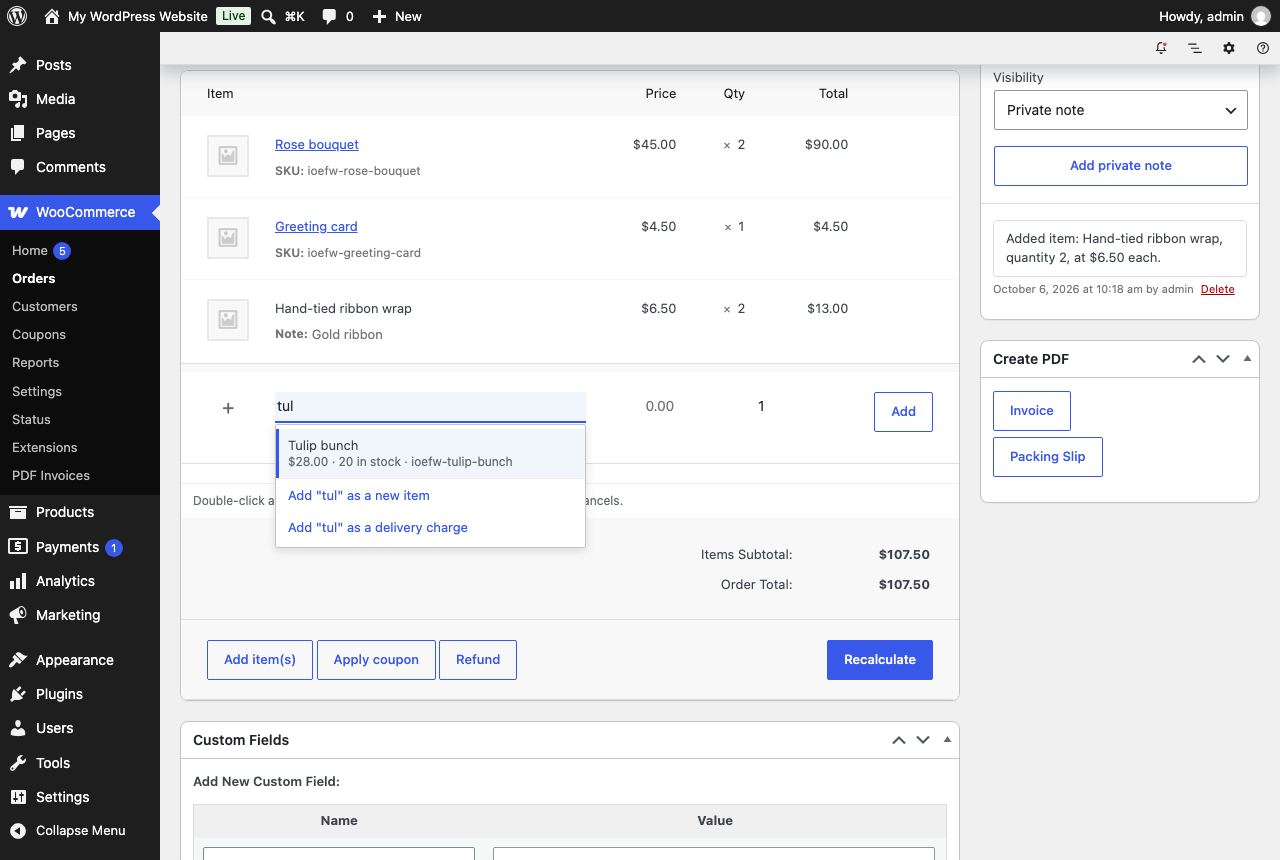
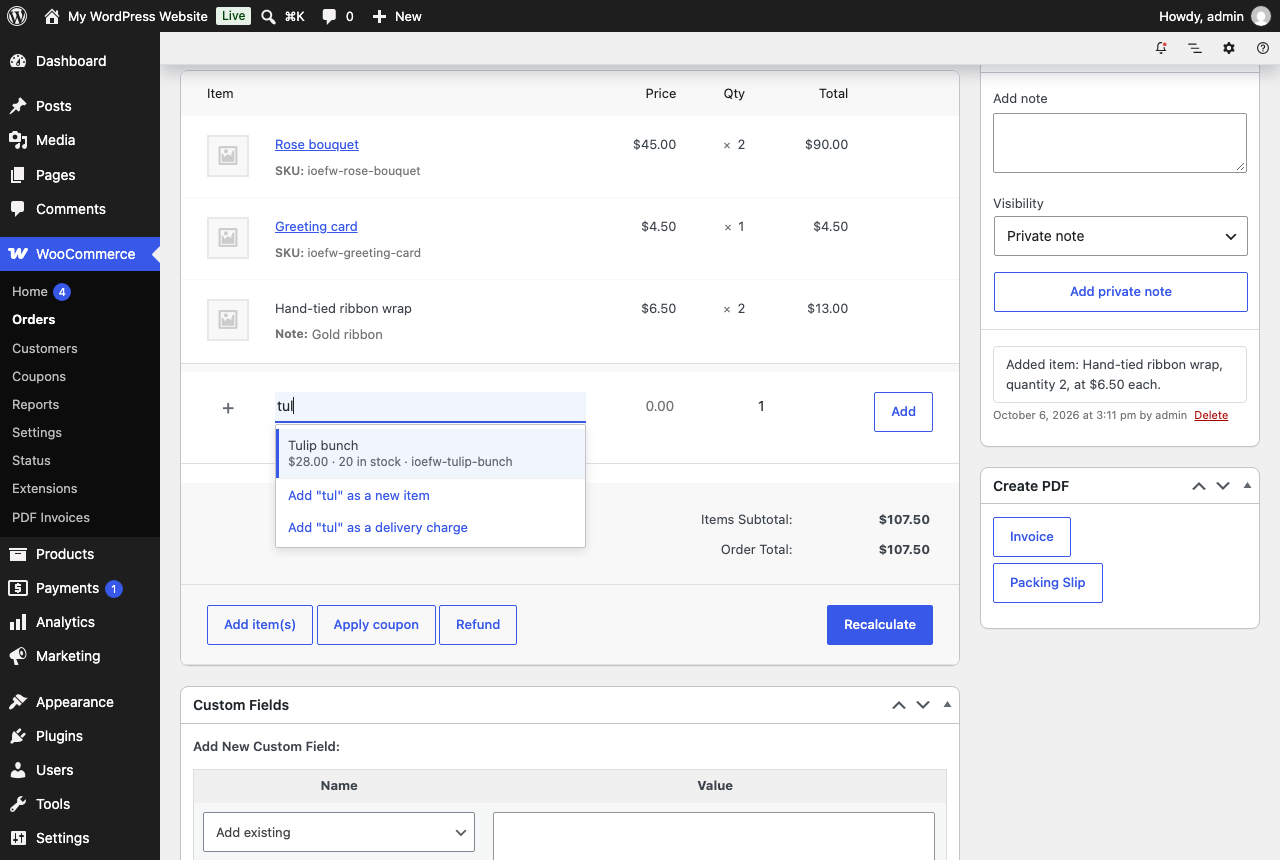
Show saved messages and errors as toasts, and drop the tip line
The line under the order's items is gone. A saved change, or something
that went wrong, now shows as a toast: a WordPress snackbar notice, which
WooCommerce's admin screens already draw and read out. Where that is not
on the page, a small toast of our own stands in. An error stays until it
is closed or replaced.

How to change a line is in the plugin's description instead. Where typed
amounts include tax, the price field and the value say so on hover. On an
order that is not created yet, the saved message says to click Create.

Version 1.0.1.

diff --git a/assets/js/order-editor.js b/assets/js/order-editor.js
@@ -21,7 +21,6 @@
 		box: '#woocommerce-order-items',
 		inside: '#woocommerce-order-items .inside',
 		table: 'table.woocommerce_order_items',
-		wrapper: '.woocommerce_order_items_wrapper',
 		lineItems: '#order_line_items',
 		feeItems: '#order_fee_line_items',
 		shippingItems: '#order_shipping_line_items',
@@ -29,6 +28,7 @@
 		notes: 'ul.order_notes',
 		status: '#order_status',
 		form: 'form#order, form#post',
+		toasts: '.woocommerce-transient-notices',
 		reloaded: 'wc_order_items_reloaded',
 		reload: 'wc_order_items_reload',
 		draftStatus: 'wc-checkout-draft',
@@ -41,8 +41,7 @@
 	let busy = false; // One request at a time.
 	let editing = null; // The cell being changed.
 	let pendingFocus = null; // Where focus goes once the box is redrawn.
-	let notice = null; // The message in the status line.
-	let noticeTimer = null;
+	let toastTimer = null;
 	let submitting = false; // The order form itself is being saved.
 	let pendingSubmit = null; // The order form, held back until a save in flight has answered.
 	let lastPointer = 'mouse';
@@ -188,60 +187,47 @@
 		document.dispatchEvent( new window.CustomEvent( 'ioefw:' + name, { detail: detail || {} } ) );
 	}
 
-	/* ---------- Status line ---------- */
+	/* ---------- Messages ---------- */
 
-	function hint() {
-		const parts = [];
+	// A message is a toast. WooCommerce's admin screens already show WordPress notices of the
+	// snackbar kind, bottom left, and read them out. Where that is not on the page, a small toast
+	// of our own stands in. A new message takes the place of the last one.
+	function showNotice( text, type ) {
+		const isError = 'error' === type;
+		const notices = wp.data && wp.data.dispatch ? wp.data.dispatch( 'core/notices' ) : null;
 
-		if ( state.isNew && hasItems() ) {
-			parts.push( __( 'Not saved yet. Click Create to keep this order.', 'inline-order-editor-for-woocommerce' ) );
-		}
-
-		parts.push(
-			hasItems()
-				? __(
-						'Double-click a price, quantity or total to change it. Enter saves, Esc cancels.',
-						'inline-order-editor-for-woocommerce'
-				  )
-				: __(
-						'Type a name in the row above to add the first item. Enter adds it.',
-						'inline-order-editor-for-woocommerce'
-				  )
-		);
-
-		if ( state.inclusive ) {
-			parts.push( __( 'Amounts you type include tax.', 'inline-order-editor-for-woocommerce' ) );
-		}
-
-		return parts.join( ' ' );
-	}
-
-	function drawStatus() {
-		const line = document.querySelector( CORE.box + ' .ioefw-status' );
-
-		if ( ! line ) {
+		if ( notices && notices.createNotice && document.querySelector( CORE.toasts ) ) {
+			notices.createNotice( isError ? 'error' : 'success', text, {
+				type: 'snackbar',
+				id: 'ioefw-toast',
+				// Something went wrong: the message stays until it is closed or replaced.
+				explicitDismiss: isError,
+			} );
 			return;
 		}
 
-		line.textContent = '';
-		line.classList.toggle( 'ioefw-status--error', !! notice && 'error' === notice.type );
-		line.classList.toggle( 'ioefw-status--saved', !! notice && 'error' !== notice.type );
-		line.appendChild( document.createTextNode( notice ? notice.text : hint() ) );
-	}
+		let toast = document.querySelector( '.ioefw-toast' );
 
-	function showNotice( text, type ) {
-		notice = { text: text, type: type || 'saved' };
-		window.clearTimeout( noticeTimer );
+		if ( ! toast ) {
+			toast = element( 'div', 'ioefw-toast', { role: 'status' } );
+			toast.addEventListener( 'click', function () {
+				toast.hidden = true;
+			} );
+			document.body.appendChild( toast );
+		}
 
-		if ( 'error' !== notice.type ) {
-			noticeTimer = window.setTimeout( function () {
-				notice = null;
-				drawStatus();
+		window.clearTimeout( toastTimer );
+		toast.textContent = text;
+		toast.classList.toggle( 'ioefw-toast--error', isError );
+		toast.hidden = false;
+
+		if ( ! isError ) {
+			toastTimer = window.setTimeout( function () {
+				toast.hidden = true;
 			}, 8000 );
 		}
 
-		drawStatus();
-		speak( text, 'error' === notice.type ? 'assertive' : 'polite' );
+		speak( text, isError ? 'assertive' : 'polite' );
 	}
 
 	function savedText( data ) {
@@ -255,6 +241,15 @@
 		}
 
 		return __( 'Saved.', 'inline-order-editor-for-woocommerce' );
+	}
+
+	// On an order that does not exist yet, a saved line is only kept once the order is created.
+	function savedNotice( data ) {
+		const text = savedText( data );
+
+		return state && state.isNew
+			? text + ' ' + __( 'Click Create to keep this order.', 'inline-order-editor-for-woocommerce' )
+			: text;
 	}
 
 	/* ---------- Drawing ---------- */
@@ -344,7 +339,12 @@
 				cell.setAttribute( 'tabindex', '0' );
 				cell.setAttribute( 'role', 'button' );
 				cell.setAttribute( 'aria-label', cellLabel( field, item ) );
-				cell.setAttribute( 'title', __( 'Double-click to change', 'inline-order-editor-for-woocommerce' ) );
+				cell.setAttribute(
+					'title',
+					state.inclusive && ( 'price' === field || 'total' === field )
+						? __( 'Double-click to change. Includes tax.', 'inline-order-editor-for-woocommerce' )
+						: __( 'Double-click to change', 'inline-order-editor-for-woocommerce' )
+				);
 				cell.closest( 'td' ).classList.add( 'ioefw-host' );
 			} );
 		} );
@@ -368,14 +368,6 @@
 
 		markCells( table );
 		buildAddRow( table );
-
-		const wrapper = table.closest( CORE.wrapper ) || table;
-		const line = document.createElement( 'div' );
-
-		line.className = 'ioefw-status';
-		line.setAttribute( 'role', 'status' );
-		wrapper.insertAdjacentElement( 'afterend', line );
-		drawStatus();
 		restoreFocus();
 		emit( 'mounted', { state: state } );
 	}
@@ -665,7 +657,7 @@
 			if ( response.success ) {
 				// Focus goes where it was asked to go, or stays where the user has moved to since.
 				pendingFocus = after || focusPlace();
-				showNotice( savedText( response.data ) );
+				showNotice( savedNotice( response.data ) );
 				draw( response.data );
 				emit( 'saved', { action: 'update_item', itemId: edit.itemId, field: edit.field, response: response.data } );
 				releaseSubmit( true );
@@ -816,6 +808,10 @@
 		const plus = element( 'span', 'ioefw-add__plus', { 'aria-hidden': 'true' } );
 		const button = element( 'button', 'button ioefw-add__button', { type: 'button' } );
 
+		const priceLabel = state.inclusive
+			? __( 'Price each, including tax', 'inline-order-editor-for-woocommerce' )
+			: __( 'Price each', 'inline-order-editor-for-woocommerce' );
+
 		plus.textContent = '+';
 		button.textContent = __( 'Add', 'inline-order-editor-for-woocommerce' );
 
@@ -834,7 +830,8 @@
 							type: 'text',
 							inputmode: 'decimal',
 							autocomplete: 'off',
-							'aria-label': __( 'Price each', 'inline-order-editor-for-woocommerce' ),
+							'aria-label': priceLabel,
+							title: priceLabel,
 							placeholder: formatNumber( 0 ),
 						} )
 					)
@@ -1149,7 +1146,7 @@
 		setAddBusy( false );
 		resetDraft();
 		pendingFocus = { type: 'add' };
-		showNotice( savedText( response.data ) );
+		showNotice( savedNotice( response.data ) );
 		draw( response.data );
 		emit( 'saved', { action: action, response: response.data } );
 		releaseSubmit( true );

diff --git a/assets/css/order-editor.css b/assets/css/order-editor.css
@@ -267,22 +267,32 @@
 	font-size: 12px;
 }
 
-/* The line under the table: a tip, or what the last change did. Its height is fixed. */
-#woocommerce-order-items .ioefw-status {
-	border-top: 1px solid #f0f0f1;
-	color: var(--ioefw-muted);
-	font-size: 12px;
-	line-height: 18px;
-	min-height: 18px;
-	padding: 8px 12px;
+/* The stand-in toast, for screens where WooCommerce's own is not on the page. It follows the look of
+   the WordPress snackbar. */
+.ioefw-toast {
+	background: #1e1e1e;
+	border-radius: 4px;
+	bottom: 24px;
+	box-shadow: 0 4px 12px rgba(0, 0, 0, 0.25);
+	box-sizing: border-box;
+	color: #fff;
+	cursor: pointer;
+	font-size: 13px;
+	left: 50%;
+	line-height: 1.4;
+	max-width: min(600px, calc(100vw - 32px));
+	padding: 12px 20px;
+	position: fixed;
+	transform: translateX(-50%);
+	z-index: 100000;
 }
 
-#woocommerce-order-items .ioefw-status--saved {
-	color: var(--ioefw-saved);
+.ioefw-toast[hidden] {
+	display: none;
 }
 
-#woocommerce-order-items .ioefw-status--error {
-	color: var(--ioefw-error);
+.ioefw-toast--error {
+	box-shadow: inset 4px 0 0 #f86368, 0 4px 12px rgba(0, 0, 0, 0.25);
 }
 
 /* The warning under the Status field when Draft is chosen. */

diff --git a/inline-order-editor-for-woocommerce.php b/inline-order-editor-for-woocommerce.php
@@ -2,8 +2,8 @@
 /**
  * Plugin Name: Inline Order Editor for WooCommerce
  * Plugin URI: https://github.com/danielk-am/inline-order-editor-for-woocommerce
- * Description: Take phone orders on the WooCommerce order screen. Add any item as a new row, double-click a line to change it, and add terms that reach the customer's email.
- * Version: 1.0.0
+ * Description: Take phone orders on the WooCommerce order screen. Type a name in the empty row to add any item. Double-click a price, quantity or total to change it: Enter saves, Esc cancels. Add terms that reach the customer's email.
+ * Version: 1.0.1
  * Requires at least: 6.8
  * Requires PHP: 7.4
  * Requires Plugins: woocommerce
@@ -20,7 +20,7 @@
 
 defined( 'ABSPATH' ) || exit;
 
-define( 'IOEFW_VERSION', '1.0.0' );
+define( 'IOEFW_VERSION', '1.0.1' );
 define( 'IOEFW_PLUGIN_FILE', __FILE__ );
 
 add_action(

diff --git a/README.md b/README.md
@@ -16,7 +16,7 @@ It is for shops that take orders by phone, over the counter or by message, and t
 
 **Order terms.** A box on each order for payment, delivery or return terms, filled in from a default you set once. The customer sees them in order emails and on their order page, and they print on invoices made by PDF Invoices & Packing Slips for WooCommerce.
 
-After every change the order's taxes and totals are calculated again, and a line under the items says what happened: "Saved. The order total is now $65.00. It was $50.00." Each change also leaves a private order note with the old and the new value.
+After every change the order's taxes and totals are calculated again, and a toast at the bottom of the screen says what happened: "Saved. The order total is now $65.00. It was $50.00." Each change also leaves a private order note with the old and the new value.
 
 The plugin also warns you when you pick the Draft status. WooCommerce deletes Draft orders by itself about a day after their last change, which catches out shops that park unfinished orders there.
 
@@ -30,6 +30,7 @@ The plugin also warns you when you pick the Draft status. WooCommerce deletes Dr
 - **Each request carries a fingerprint of the order's lines.** If the order changed somewhere else in the meantime, nothing is saved and the screen is brought up to date.
 - **Update waits for a save in flight.** Clicking Update while a value is still open saves that value first, then submits the form.
 - **Terms are a copy on the order**, in the meta key `_ioefw_order_terms`. Changing the default later does not rewrite earlier orders.
+- **Messages are toasts.** They go through the WordPress notices store as snackbars, which WooCommerce's admin screens already draw and read out. Where that is not on the page, the script shows a small toast of its own.
 
 There is no build step. The screen is one script and one stylesheet, loaded only where a single order is edited.
 
@@ -80,7 +81,7 @@ In the browser, `ioefw:mounted` and `ioefw:saved` fire on `document`, and `windo
 
 ## Requirements
 
-WordPress 6.8 or later, WooCommerce 10.0 or later, PHP 7.4 or later. Version 1.0.0 was tested on WordPress 7.1.2 with WooCommerce 11.1.2 and PHP 8.5, and on WordPress 6.8.10 with WooCommerce 10.0.6 and PHP 7.4. Both ran with HPOS, and the newer stack also ran with post-based order storage.
+WordPress 6.8 or later, WooCommerce 10.0 or later, PHP 7.4 or later. Version 1.0.1 was tested on WordPress 7.1.2 with WooCommerce 11.1.2 and PHP 8.5, and on WordPress 6.8.10 with WooCommerce 10.0.6 and PHP 7.4. Both ran with HPOS, and the newer stack also ran with post-based order storage.
 
 ## Install
 

diff --git a/design/wordpress-org-submission.md b/design/wordpress-org-submission.md
@@ -10,7 +10,7 @@ Not submitted yet. The upload page offers no new submission form while an earlie
 
 ## What to upload
 
[2 lines of base64/hex data omitted]
 
 The repository has been public since 6 October 2026, so the links in the plugin's header and readme resolve.
 
